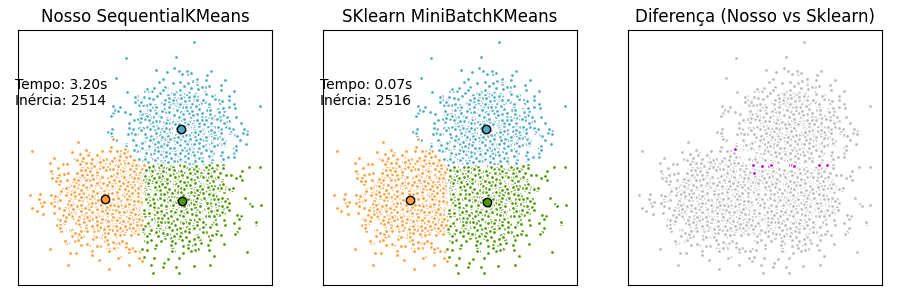
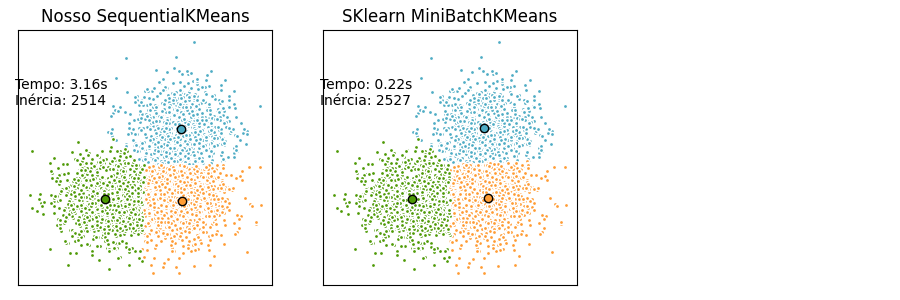
adaptations seq kmeans

diff --git a/sequential_kmeans/tutorial.py b/sequential_kmeans/tutorial.py
@@ -22,7 +22,7 @@ t_sequential = time.time() - t0
 mbk = MiniBatchKMeans(
     init="k-means++",
     n_clusters=n_clusters,
-    batch_size=batch_size,
+    batch_size=1,
     n_init=10,
     max_no_improvement=10,
     verbose=0,
@@ -68,14 +68,5 @@ ax.set_title("SKlearn MiniBatchKMeans")
 ax.set_xticks(())
 ax.set_yticks(())
 plt.text(-3.5, 1.8, f"Tempo: {t_mini_batch:.2f}s\nInércia: {mbk.inertia_:.0f}")
-
-ax = fig.add_subplot(1, 3, 3)
-different = (seq_kmeans_labels != mbk_labels)
-identical = ~different
-ax.plot(X[identical, 0], X[identical, 1], "w", markerfacecolor="#bbbbbb", marker=".")
-ax.plot(X[different, 0], X[different, 1], "w", markerfacecolor="m", marker=".")
-ax.set_title("Diferença (Nosso vs Sklearn)")
-ax.set_xticks(())
-ax.set_yticks(())
 
 plt.show()
